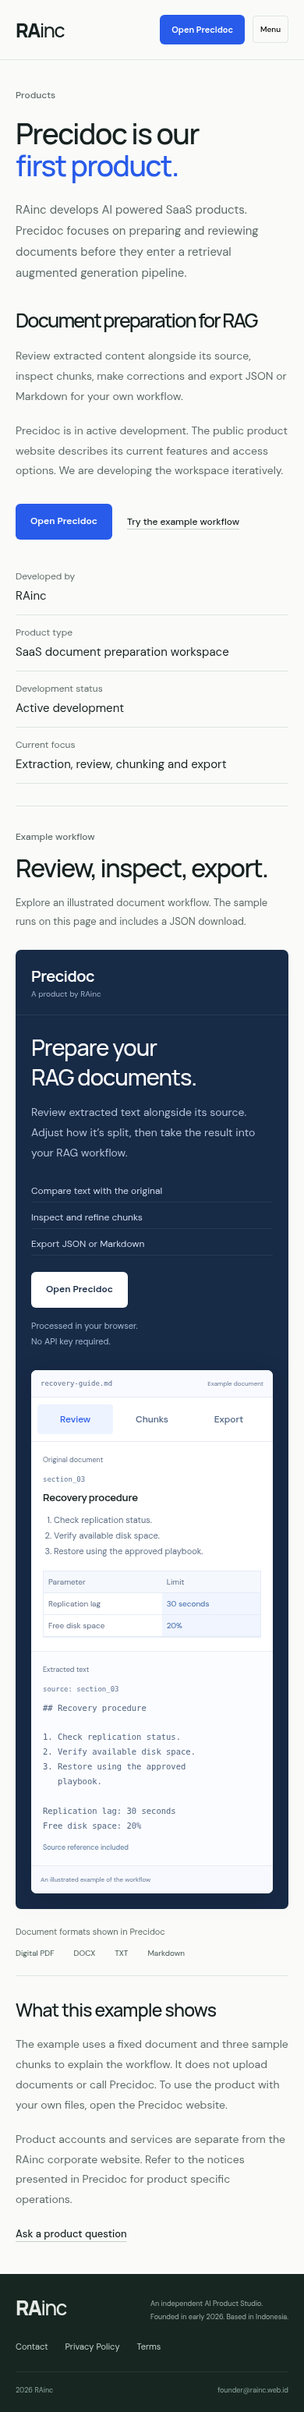
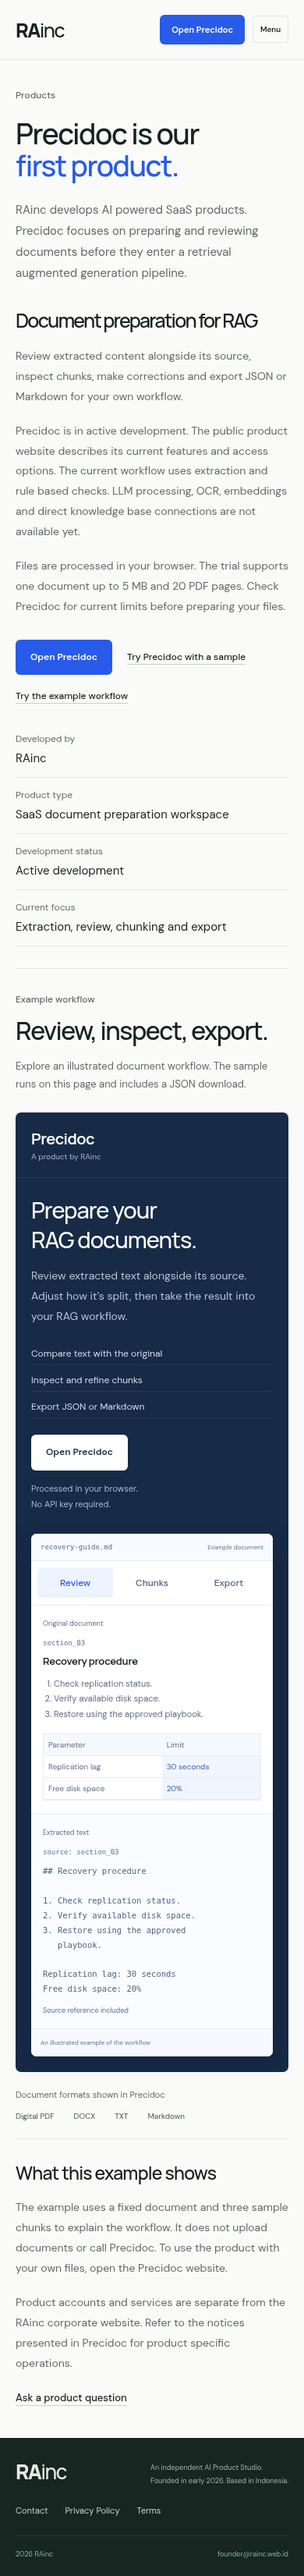
Clarify Precidoc capabilities and verify public corporate pages

Changed region(s): [[0.0, 0.0, 1.0, 0.9932], [0.5538, 0.6518, 0.6154, 0.6828], [0.1231, 0.7139, 0.1538, 0.7449]]

diff --git a/public/products/index.html b/public/products/index.html
@@ -123,8 +123,15 @@
           </p>
           <p>
             Precidoc is in active development. The public product website
-            describes its current features and access options. We are developing
-            the workspace iteratively.
+            describes its current features and access options. The current
+            workflow uses extraction and rule based checks. LLM processing, OCR,
+            embeddings and direct knowledge base connections are not available
+            yet.
+          </p>
+          <p>
+            Files are processed in your browser. The trial supports one document
+            up to 5 MB and 20 PDF pages. Check Precidoc for current limits
+            before preparing your files.
           </p>
           <div class="hero-actions">
             <a
@@ -133,6 +140,12 @@
               data-event="product_open"
               data-source="products"
               >Open Precidoc</a
+            ><a
+              class="quiet-link"
+              href="https://precidoc.rainc.web.id/sample"
+              data-event="product_open"
+              data-source="products"
+              >Try Precidoc with a sample</a
             ><a
               class="quiet-link"
               href="#demo"

diff --git a/scripts/generate_site.py b/scripts/generate_site.py
@@ -53,7 +53,7 @@ home = f'''<section class="hero wrap" aria-labelledby="hero-title"><div class="h
 <section class="studio-section wrap"><div class="studio-copy"><span class="eyebrow">The studio</span><h2>Independent.<br>Led by its founder.</h2><p>RAinc is an Indonesia based, bootstrapped startup building and owning its software. Our focus is practical AI workflows, starting with document preparation.</p><a class="quiet-link" href="/about/">Meet the studio and founder</a></div><div class="studio-story"><h3>Why start with documents?</h3><p>Preparing documents for a retrieval pipeline takes more than choosing a chunk size. You need to inspect the text, keep its source references and check the result.</p><p>That is the problem behind Precidoc.</p></div></section>
 <section class="closing-section wrap"><div><span class="eyebrow">Business contact</span><h2>Talk to the founder.</h2><p>For product questions, feedback or business inquiries, contact Rizal Aditya.</p></div><a class="button" href="/contact/">Contact RAinc</a></section>'''
 
-products = intro('Products', 'Precidoc is our<br><em>first product.</em>', 'RAinc develops AI powered SaaS products. Precidoc focuses on preparing and reviewing documents before they enter a retrieval augmented generation pipeline.') + f'''<section class="wrap product-details"><div><h2>Document preparation for RAG</h2><p>Review extracted content alongside its source, inspect chunks, make corrections and export JSON or Markdown for your own workflow.</p><p>Precidoc is in active development. The public product website describes its current features and access options. We are developing the workspace iteratively.</p><div class="hero-actions">{product_link(source='products')}<a class="quiet-link" href="#demo" data-event="demo_open" data-source="products">Try the example workflow</a></div></div><dl class="product-details-list"><div><dt>Developed by</dt><dd>RAinc</dd></div><div><dt>Product type</dt><dd>SaaS document preparation workspace</dd></div><div><dt>Development status</dt><dd>Active development</dd></div><div><dt>Current focus</dt><dd>Extraction, review, chunking and export</dd></div></dl></section>''' + demo_section() + '''<section class="wrap product-note"><h2>What this example shows</h2><p>The example uses a fixed document and three sample chunks to explain the workflow. It does not upload documents or call Precidoc. To use the product with your own files, open the Precidoc website.</p><p>Product accounts and services are separate from the RAinc corporate website. Refer to the notices presented in Precidoc for product specific operations.</p><a class="quiet-link" href="/contact/">Ask a product question</a></section>'''
+products = intro('Products', 'Precidoc is our<br><em>first product.</em>', 'RAinc develops AI powered SaaS products. Precidoc focuses on preparing and reviewing documents before they enter a retrieval augmented generation pipeline.') + f'''<section class="wrap product-details"><div><h2>Document preparation for RAG</h2><p>Review extracted content alongside its source, inspect chunks, make corrections and export JSON or Markdown for your own workflow.</p><p>Precidoc is in active development. The public product website describes its current features and access options. The current workflow uses extraction and rule based checks. LLM processing, OCR, embeddings and direct knowledge base connections are not available yet.</p><p>Files are processed in your browser. The trial supports one document up to 5 MB and 20 PDF pages. Check Precidoc for current limits before preparing your files.</p><div class="hero-actions">{product_link(source='products')}<a class="quiet-link" href="https://precidoc.rainc.web.id/sample" data-event="product_open" data-source="products">Try Precidoc with a sample</a><a class="quiet-link" href="#demo" data-event="demo_open" data-source="products">Try the example workflow</a></div></div><dl class="product-details-list"><div><dt>Developed by</dt><dd>RAinc</dd></div><div><dt>Product type</dt><dd>SaaS document preparation workspace</dd></div><div><dt>Development status</dt><dd>Active development</dd></div><div><dt>Current focus</dt><dd>Extraction, review, chunking and export</dd></div></dl></section>''' + demo_section() + '''<section class="wrap product-note"><h2>What this example shows</h2><p>The example uses a fixed document and three sample chunks to explain the workflow. It does not upload documents or call Precidoc. To use the product with your own files, open the Precidoc website.</p><p>Product accounts and services are separate from the RAinc corporate website. Refer to the notices presented in Precidoc for product specific operations.</p><a class="quiet-link" href="/contact/">Ask a product question</a></section>'''
 
 about = intro('About RAinc', 'An independent<br><em>AI Product Studio.</em>', 'RAinc was founded in early 2026 by Rizal Aditya. We are a bootstrapped, founder led startup based in Indonesia, developing our own AI powered SaaS products.') + f'''<section class="wrap company-overview">{facts()}</section><section class="studio-section wrap"><div class="studio-copy"><h2>Our mission</h2><p>Build useful software that makes the work around AI easier to understand, inspect and complete.</p><p>We develop products from problems encountered in practical AI engineering. Our first focus is document preparation for retrieval augmented generation.</p></div><div class="studio-story"><h3>Our product focus</h3><p>Precidoc is RAinc's first product. It addresses the decisions around extracted text, document chunking, source references and export.</p><p>We are building the product iteratively. Development progress is recorded in our updates and public website repository.</p><a class="quiet-link" href="/updates/">Read development updates</a></div></section><section id="founder" class="founder-section wrap"><div class="founder-identity"><div><span class="eyebrow">Founder</span><h2>Rizal Aditya</h2><span class="founder-role">Founder and AI engineer</span></div></div><div class="founder-story"><p>Rizal Aditya founded RAinc to develop and own his products. His professional focus is AI engineering, including document preparation and RAG workflows.</p><p>Precidoc grew from his experience selecting chunking strategies and checking document content for AI systems.</p><div class="founder-links"><a class="quiet-link" href="https://www.linkedin.com/in/rzladitya/" data-event="founder_profile" data-source="about">View Rizal's LinkedIn</a><a class="quiet-link" href="mailto:founder@rainc.web.id" data-event="contact_email" data-source="about">Email the founder</a></div></div></section><section class="wrap company-note"><h2>Company information</h2><p>RAinc is the studio and startup brand operated by Rizal Aditya. The company develops and owns Precidoc. Our public website repository records the development of this corporate website.</p><p>Business contact: <a href="mailto:founder@rainc.web.id">founder@rainc.web.id</a>.</p><a class="quiet-link" href="https://github.com/rzladitya/rainc">View the website source</a></section>'''
 

diff --git a/scripts/check_public.py b/scripts/check_public.py
@@ -1,0 +1,43 @@
+"""Verify deployed HTTPS pages and search discovery with the inherited proxy."""
+import json
+import subprocess
+import xml.etree.ElementTree as ET
+from html.parser import HTMLParser
+from pathlib import Path
+
+BASE = 'https://rainc.web.id'
+PATHS = ['/', '/products/', '/about/', '/updates/', '/contact/', '/privacy/', '/terms/']
+
+
+def fetch(url):
+    return subprocess.check_output(['curl', '--fail', '--silent', '--show-error', '--max-time', '30', url]).decode()
+
+
+class Metadata(HTMLParser):
+    def __init__(self):
+        super().__init__()
+        self.canonical = None
+        self.robots = None
+    def handle_starttag(self, tag, attrs):
+        attrs = dict(attrs)
+        if tag == 'link' and attrs.get('rel') == 'canonical':
+            self.canonical = attrs.get('href')
+        if tag == 'meta' and attrs.get('name') == 'robots':
+            self.robots = attrs.get('content')
+
+
+robots = fetch(BASE + '/robots.txt')
+assert 'Allow: /' in robots and 'Sitemap: ' + BASE + '/sitemap.xml' in robots
+root = ET.fromstring(fetch(BASE + '/sitemap.xml'))
+locations = [e.text for e in root.findall('{*}url/{*}loc')]
+assert set(locations) == {BASE + p for p in PATHS}
+results = []
+for path in PATHS:
+    page = Metadata()
+    page.feed(fetch(BASE + path))
+    assert page.canonical == BASE + path, path
+    assert page.robots == 'index, follow', path
+    results.append({'url': BASE + path, 'canonical': page.canonical, 'robots': page.robots})
+fetch('https://precidoc.rainc.web.id/sample')
+Path('review/v2/public-verification.json').write_text(json.dumps({'checked_on': '2026-10-12', 'pages': results, 'sitemap': 'valid seven canonical URLs', 'robots': 'allows public indexing', 'precidoc_sample': 'HTTP 200'}, indent=2) + '\n')
+print('Public HTTPS verification passed: seven pages, canonical URLs, robots, sitemap and Precidoc sample entry.')

diff --git a/README.md b/README.md
@@ -61,3 +61,21 @@ In the Cloudflare dashboard, open the `rainc` Worker and its Logs or Observabili
 Tracked events are `page_view`, `product_open`, `demo_open`, `demo_step`, `example_download`, `contact_email` and `founder_profile`. These represent page views or user actions, not unique people, delivered emails, subscriptions or sales. The tracker uses no cookies, browser IDs, query strings, document content or email contents. Do Not Track and Global Privacy Control suppress tracking.
 
 Metrics use the existing Cloudflare Worker logging service. No additional paid analytics subscription or third party browser SDK is required. Provider plan quotas and log retention settings still apply. Privacy disclosures describe the distinction between event payloads and Cloudflare's technical request records.
+
+### Follow up verification
+
+Run `python3 scripts/check_public.py` after deployment to check the seven public
+HTTPS pages, canonical URLs, indexing directives, sitemap and Precidoc sample
+entry. This does not establish search engine indexing or test the Precidoc
+workspace itself. Google Search Console submission requires access to the site
+owner's Search Console property.
+
+Repository About settings to apply when GitHub API access is available:
+
+* Description: RAinc corporate website. An independent AI Product Studio founded by Rizal Aditya, developing Precidoc.
+* Website: https://rainc.web.id/
+* Topics: ai, saas, document-processing, product-studio, cloudflare-workers
+
+The October 12 follow up retains the V2 design and makes Precidoc's current
+capabilities and unavailable features explicit. Its public sample entry links
+straight to the product; the corporate example remains a separate illustration.

diff --git a/review/v2/feedback-follow-up.md b/review/v2/feedback-follow-up.md
@@ -1,0 +1,27 @@
+# Feedback follow up on 12 October 2026
+
+The corporate V2 design is preserved. The Products page now links directly to
+Precidoc's public sample and explains browser processing, current trial limits,
+and unavailable LLM processing, OCR, embeddings and knowledge base connections.
+These statements were checked against Precidoc's public landing page.
+
+Public HTTPS requests succeeded for all seven corporate pages, robots.txt,
+sitemap.xml and the Precidoc sample entry. Sitemap URLs match the page canonical
+URLs, and the public pages allow indexing. Results are in public-verification.json.
+This does not prove Google has indexed the website.
+
+The browser suite passed 42 page and viewport combinations, desktop and mobile
+accessibility checks, demo tabs, JSON download, keyboard and mobile navigation,
+privacy signals and navigation without JavaScript. A separate mobile check of the
+updated product copy found no horizontal overflow.
+
+Remaining external verification:
+
+* GitHub API access was rejected by the environment proxy. Repository About metadata
+  has not been changed. The proposed description, website and topics are in README.
+* LinkedIn is not an allowed destination in the environment. The founder profile
+  link is preserved, but independent profile verification remains pending.
+* Search Console access is not configured. No submission or indexing claim is made.
+* Precidoc sample returned HTTP 200. Its processing, login and free workspace
+  behavior require a separate product audit; they are not covered by RAinc tests.
+* No traction, customer numbers or startup program approval claims were added.
